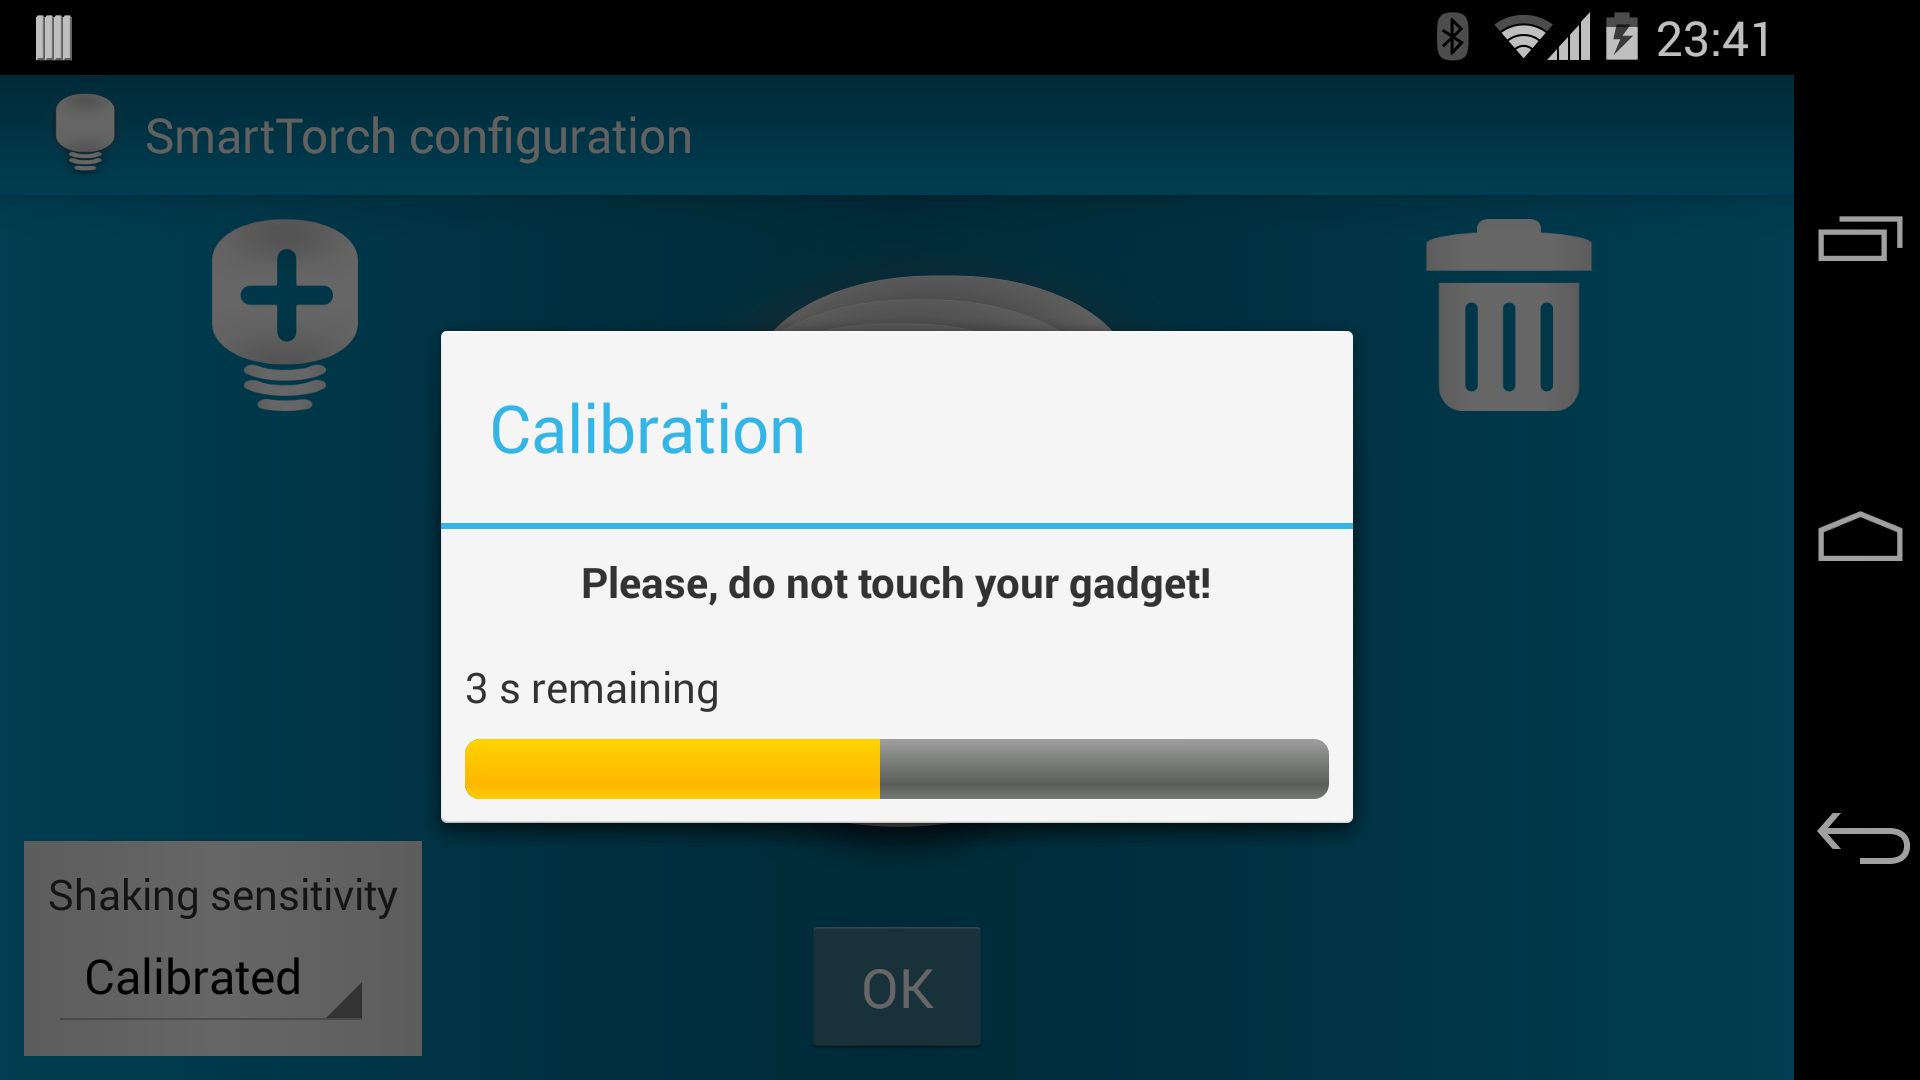
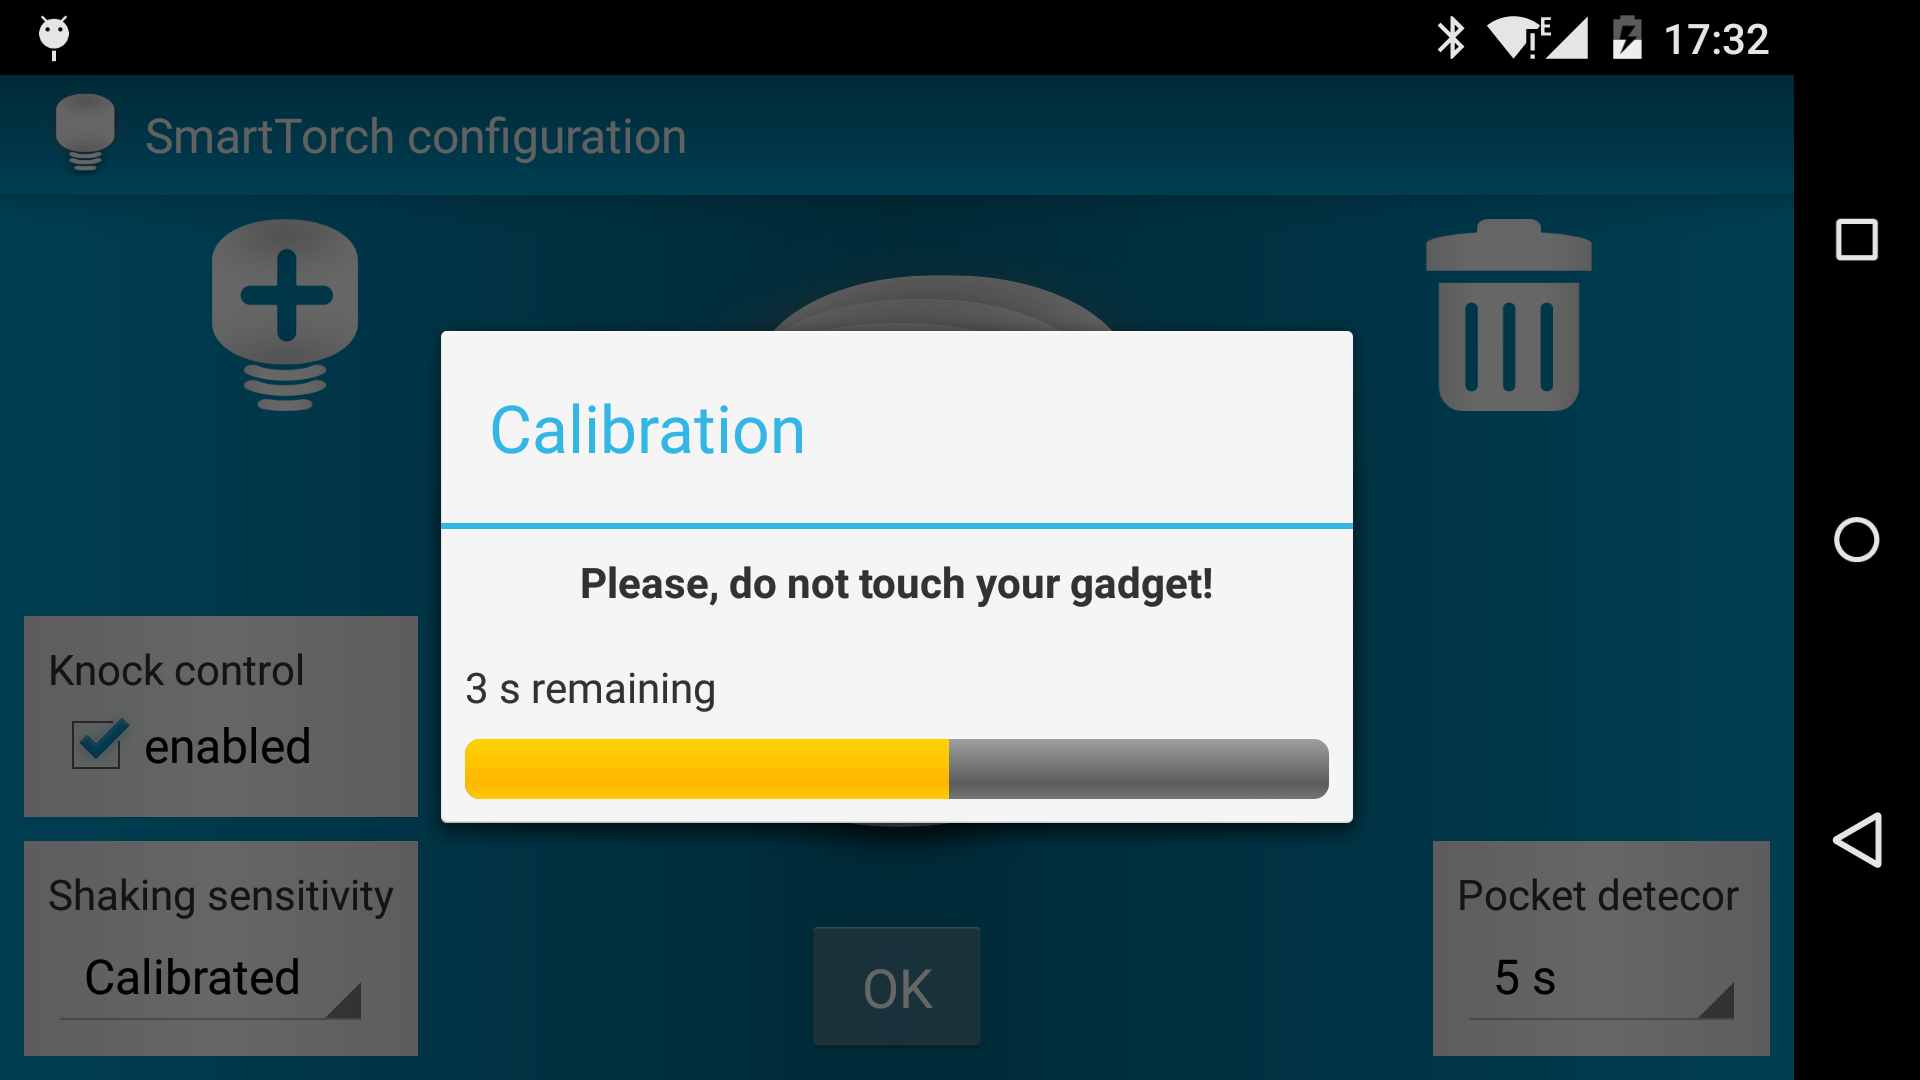
v1.4

diff --git a/README.md b/README.md
@@ -1,21 +1,23 @@
 SmartTorch
 ==========
 
-Really smart torch widget for Android.
-
 SmartTorch can turns off automatically by a timer, and remain on until you put the gadget on the table (ie, as long as you keep the gadget in your hands: uses accelerometer). You will not need to turn off the flashlight: you just put the phone and it switches itself off!
 
 Widget is able to work on home screen and lock screen (widget on a lock screen feature is supported in Android 4.2+).
 
 SmartTorch supports modes that you can switch by flipping through them in the widget. 
 The mode defines:
-* timeout after which the flashlight is turned off (∞ means that will work until you turn it off) 
-* determines whether a accelerometer (shake sensor) enabled, which allows to keep the flashlight on until you don't put the gadget on the table
+• timeout after which the flashlight is turned off (∞ means that will work until you turn it off) 
+• determines whether a accelerometer (shake sensor) enabled, which allows to keep the flashlight on until you don't put the gadget on the table
 
 The list of modes can be changed in the configuration window that appears when you put the widget on the home screen or lock screen. The configuration window can also be called by double-clicking on an existing widget (on your home screen, not on a lock screen).
 
 In addition to the list of modes it is possible to set the threshold of sensitivity of the accelerometer (acceleration at which SmartTorch will assume that the gadget is stationary). You can choose one of three pre-defined levels of sensitivity, or calibrate the threshold for your gadget (at the time of calibration your gadget should remain motionless, since the application measures the noise level of the accelerometer  and automatically sets the threshold). Calibration allows to maximize the sensitivity to motions limited by accelerometer's noises.
 
-SmartTorch doesn't eats battery when turned off, contains no advertising and other not related with a flashlight garbage.
+Knock control feature. Now you can switch between modes by knocking your phone. Turn on this feature in the settings and specify how many knocks need to do to select the mode.
+
+Pocket detector. You can just put your gadget into a pocket and SmartTorch will be turned off automatically. Just turn this feature on in the settings (double-click on existing widget or place a new widget on your home screen). This feature requires a proximity sensor. When the sensor reports than something is very close to it, SmarTorch starts waiting for defined by you timeout and turns off when it has expired.
+
+SmartTorch doesn't eats battery when turned off, contains no advertising and other not related to a flashlight garbage.
 
 [You can install SmartTorch widget from Google Play](https://play.google.com/store/apps/details?id=com.greenlog.smarttorch)
